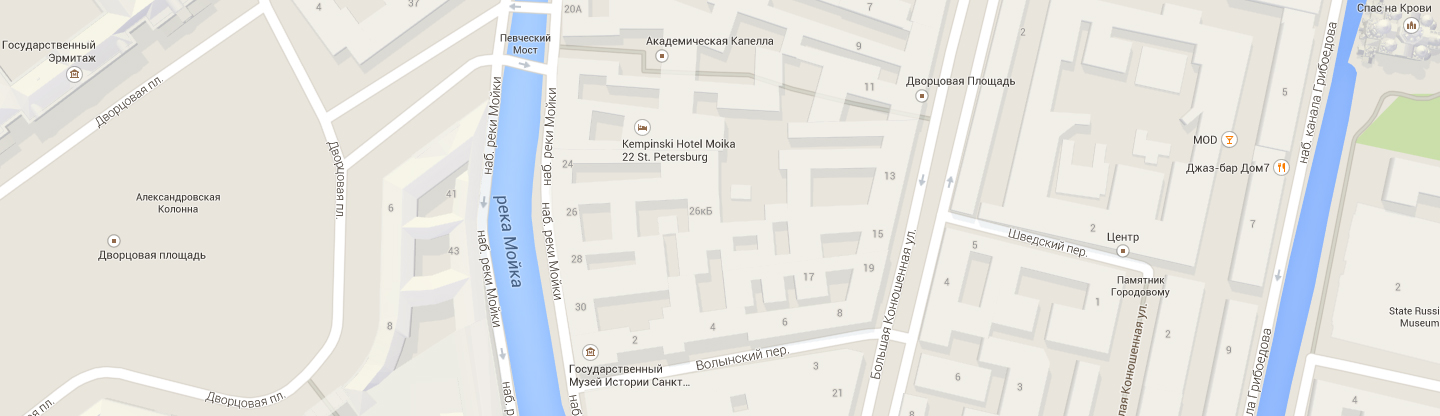
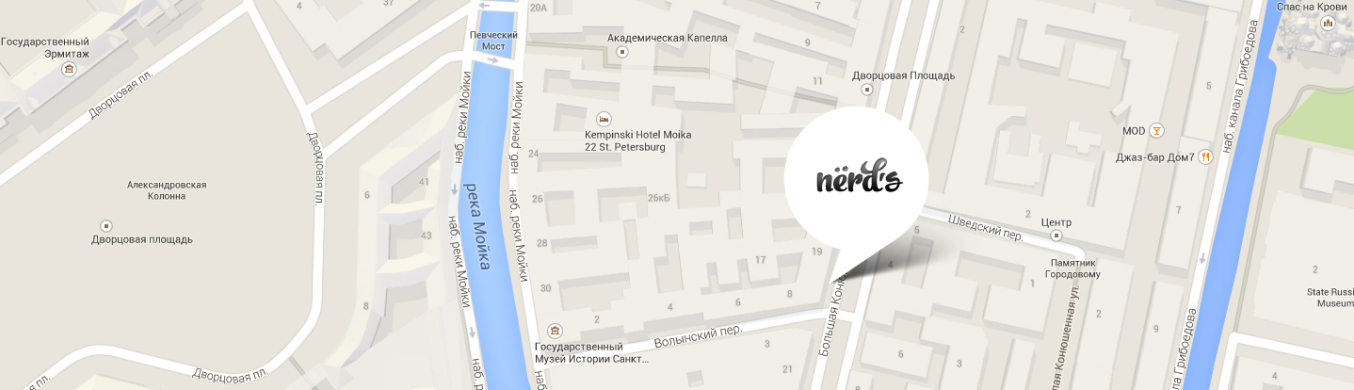
Делает сетку на главной странице

diff --git a/index.html b/index.html
@@ -13,7 +13,7 @@
     <title>HTML Academy: Нёрдс</title>
   </head>
   <body class="page-body">
-    <header class="main-header">
+    <header class="main-header container">
       <nav class="main-navigation">
         <img class="main-header-logo" src="img/logo/nerds-logo.svg" width="160" height="65" alt="Логотип студии Нёрдс">
         <ul class="site-navigation">
@@ -28,14 +28,18 @@
     <main class="container">
       <h1>Дизайн-студия Нёрдс</h1>
       <section class="slider">
-        <h2>Промо</h2>
-        <p class="slogan">Долго, дорого, скрупулезно.</p>
-        <p>Математически выверенный дизайн для вашего сайта или мобильного приложения.</p>
-        <a class="button btn-red" href="#">Узнать больше</a>
-        <img src="img/nerds-index-slide1_1.png" width=760 height=431 alt="Обои первого слайда">
-        <button class="button" type="button"></button>
-        <button class="button" type="button"></button>
-        <button class="button" type="button"></button>
+        <div class="slider-promo">
+          <h2>Промо</h2>
+          <p class="slogan">Долго, дорого, скрупулезно.</p>
+          <p>Математически выверенный дизайн для вашего сайта или мобильного приложения.</p>
+          <a class="button btn-red" href="#">Узнать больше</a>
+        </div>
+        <div class="slider-img">
+          <img src="img/nerds-index-slide1_1.png" width=760 height=431 alt="Обои первого слайда">
+          <button class="button" type="button"></button>
+          <button class="button" type="button"></button>
+          <button class="button" type="button"></button>
+        </div>
       </section>
       <section class="work">
         <h2>Выполняемые работы</h2>
@@ -61,30 +65,34 @@
         </ul>
       </section>
       <section class="about-us">
-        <h2>О нас</h2>
-        <p class="about-us-promo">Мы — маленькая, но гордая дизайн-студия из Краснодара.</p>
-        <p>Исповедуем принципы минимализма и чистоты.
-           Ставим математический расчетпревыше креатива. Работаем не покладая рук, как роботы.</p>
-        <p class="heading-list">Выполняем заказы на разработку:</p>
-        <ul class="about-us-list">
-          <li class="about-us-item">Веб-сайтов любой сложности</li>
-          <li class="about-us-item">Мобильных приложений для iOS и Android</li>
-          <li class="about-us-item">Слайдшоу и видео для корпоративных презентаций</li>
-        </ul>
-        <img class="img-grey" src="img/logo/nerds-illustration1_2.png" width="360"  height="208" alt="Нёрдс">
-        <p class="after-logo">с 2004 года Любим точность во всем:</p>
-        <table class="about-us-table">
-          <tr>
-            <th>146<sup>%</sup></th>
-            <th>100<sup>%</sup></th>
-            <th>50<sup>%</sup></th>
-          </tr>
-          <tr>
-            <td>Уровень самоотдачи</td>
-            <td>Соблюдение сроков</td>
-            <td>Минимальная предоплата</td>
-          </tr>
-        </table>
+        <div class="about-us-text">
+          <h2>О нас</h2>
+          <p class="about-us-promo">Мы — маленькая, но гордая дизайн-студия из Краснодара.</p>
+          <p>Исповедуем принципы минимализма и чистоты.
+             Ставим математический расчет превыше креатива. Работаем не покладая рук, как роботы.</p>
+          <p class="heading-list">Выполняем заказы на разработку:</p>
+          <ul class="about-us-list">
+            <li class="about-us-item">Веб-сайтов любой сложности</li>
+            <li class="about-us-item">Мобильных приложений для iOS и Android</li>
+            <li class="about-us-item">Слайдшоу и видео для корпоративных презентаций</li>
+          </ul>
+        </div>
+        <div class="about-us-img">
+          <img class="img-grey" src="img/logo/nerds-illustration1_2.png" width="360"  height="208" alt="Нёрдс">
+          <p class="after-logo">с 2004 года Любим точность во всем:</p>
+          <table class="about-us-table">
+            <tr>
+              <th>146<sup>%</sup></th>
+              <th>100<sup>%</sup></th>
+              <th>50<sup>%</sup></th>
+            </tr>
+            <tr>
+              <td>Уровень самоотдачи</td>
+              <td>Соблюдение сроков</td>
+              <td>Минимальная предоплата</td>
+            </tr>
+          </table>
+        </div>
       </section>
       <section class="clients">
         <h2>Наши клиенты</h2>
@@ -100,7 +108,6 @@
       <section class="map">
         <h2>Карта</h2>
         <img class="img-map" src="img/map.png" width="1440" height="416" alt="Карта">
-        <img class="img-marker" src="img/map-marker.png" width="231" height="190" alt="Маркер">
         <div class="contacts">
           <h3>NЁRDS DESIGN STUDIO</h3>
           <p>191186, Санкт-Петербург, ул. Б. Конюшенная, д. 19/8тел. <br>
@@ -108,21 +115,25 @@
           <a class="button btn-red" href="#" >Напишите нам</a>
         </div>
       </section>
-      <section class="footer-socials">
-        <h2>Социальные сети</h2>
-          <ul class="footer-socials-list">
-            <li class="footer-socials-item">
-              <a class="socials-button" href="https://vk.com"><img src="img/vk.svg" width="26" height="15" alt="Вконтакте"></a>
-            </li>
-            <li class="footer-socials-item">
-              <a class="socials-button" href="https://facebook.com"><img src="img/fb.svg" width="12" height="22" alt="Фейсбук"></a>
-            </li>
-            <li class="footer-socials-item">
-              <a class="socials-button" href="https://instagram.com"><img src="img/inst.svg" width="21" height="21" alt="Инстаграм"></a>
-            </li>
-          </ul>
-        <p class="heading-socials,">Давайте дружить, это выгодно!</p>
-        <p>Скидка 10% для друзей из социальных сетей.</p>
+      <section class="footer-socials container">
+        <div class="socials">
+          <h2>Социальные сети</h2>
+            <ul class="footer-socials-list">
+              <li class="footer-socials-item">
+                <a class="socials-button" href="https://vk.com"><img src="img/vk.svg" width="26" height="15" alt="Вконтакте"></a>
+              </li>
+              <li class="footer-socials-item">
+                <a class="socials-button" href="https://facebook.com"><img src="img/fb.svg" width="12" height="22" alt="Фейсбук"></a>
+              </li>
+              <li class="footer-socials-item">
+                <a class="socials-button" href="https://instagram.com"><img src="img/inst.svg" width="21" height="21" alt="Инстаграм"></a>
+              </li>
+            </ul>
+        </div>
+        <div class="socials">
+          <p class="heading-socials,">Давайте дружить, это выгодно!</p>
+          <p>Скидка 10% для друзей из социальных сетей.</p>
+        </div>
       </section>
     </footer>
     <section class="write-us">

diff --git a/css/style.css b/css/style.css
@@ -9,7 +9,7 @@
 
   --red: #FB565A;
   --red-hover: #E74246;
-  --red-focus:#D7373B;
+  --red-focus: #D7373B;
   --green: #00CA74;
   --green-hover: #00BC6C;
   --green-focus: #00AA62;
@@ -48,6 +48,10 @@
   font-weight: 400;
   color: var(--text-grey);
   background-color: var(--white);
+  min-height: 100%;
+  display: grid;
+  grid-template-rows: (min-content 1fr min-content);
+  align-content: start;
 }
 
 a {
@@ -58,6 +62,21 @@ a {
 img {
   max-width: 100%;
   height: auto;
+}
+
+/* Greed */
+
+.page {
+  height: 100%;
+
+}
+
+/* Container */
+
+.container {
+  width: 1160px;
+  margin: 0 auto;
+  padding: 0;
 }
 
 /* Header */
@@ -73,10 +92,21 @@ img {
   color: var(--text-black);
   font-weight: 500;
   background-color: transparent;
+  display: grid;
+  grid-template-columns: max-content 1fr max-content;
+}
+
+.main-header-logo {
+  justify-self: left;
 }
 
 .site-navigation {
   list-style: none;
+  justify-self: center;
+}
+
+.basket {
+  justify-self: right;
 }
 
 .site-navigation a,
@@ -87,7 +117,7 @@ img {
 
 .site-navigation a:hover,
 .basket a:hover {
-  color: var(--red) ;
+  color: var(--red);
 }
 
 .site-navigation a:focus,
@@ -105,6 +135,8 @@ img {
 
 .slider {
   background-color: var(--basic-blue);
+  display: grid;
+  grid-template-columns: 1fr 2fr;
 }
 
 .slogan {
@@ -118,6 +150,15 @@ img {
 
 .work-list {
   list-style: none;
+  display: grid;
+  grid-template-columns: 1fr 1fr 1fr;
+  column-gap: 100px;
+  margin: 0;
+  padding: 0;
+}
+
+.work-item {
+  justify-self: left;
 }
 
 h3 {
@@ -141,6 +182,18 @@ h3 {
 
 /* About-us */
 
+.about-us {
+  display: grid;
+  grid-template-columns: 2fr 1fr;
+  column-gap: 40px;
+  margin-bottom: 75px;
+  border-bottom: 2px solid var(--basic-blue);
+}
+
+.about-us-text {
+  justify-self: left;
+}
+
 .about-us-promo {
   font-size: 45px;
   line-height: 45px;
@@ -160,6 +213,8 @@ h3 {
 .after-logo {
   font-weight: 700;
   color: var(--text-black);
+  text-align: center;
+  text-transform: uppercase;
 }
 
 th {
@@ -175,12 +230,6 @@ td {
   line-height: 18px;
 }
 
-/* Clients */
-
-.clients-list {
-  list-style: none;
-}
-
 /*buttton*/
 
 .button {
@@ -190,7 +239,7 @@ td {
 }
 
 .btn-red,
-.btn-order1  {
+.btn-order1 {
   background-color: var(--red);
 }
 
@@ -205,7 +254,7 @@ td {
   background-color: var(--red-focus);
 }
 
-.btn-order2  {
+.btn-order2 {
   background-color: var(--green);
 }
 
@@ -218,7 +267,7 @@ td {
   background-color: var(--green-focus);
 }
 
-.btn-order3  {
+.btn-order3 {
   background-color: var(--yellow);
 }
 
@@ -232,6 +281,20 @@ td {
 }
 
 /* Clients */
+
+.clients-list {
+  display: grid;
+  grid-template-columns: 1fr 1fr 1fr 1fr;
+  margin-bottom: 80px;
+  padding: auto 0;
+  border-bottom: 2px solid var(--basic-blue);
+  list-style: none;
+
+}
+
+.clients-item {
+  justify-self: center;
+}
 
 .clients-item a {
   opacity: 0.2;
@@ -269,6 +332,12 @@ footer h3 {
   font-size: 16px;
   line-height: 22px;
   color: var(--text-text-social);
+  display: grid;
+  grid-template-columns: 1fr 2fr;
+}
+
+.socials {
+  justify-self: left;
 }
 
 .heading-socials {
@@ -376,7 +445,7 @@ footer h3 {
 }
 
 .popup-link .heading-popup:focus {
-  color:var(--text-black);
+  color: var(--text-black);
   opacity: 0.3;
 }
 
@@ -431,4 +500,3 @@ footer h3 {
   background-color: rgba(0, 0, 0, 0.0001);
   border: 3px solid #DBDBDB;
 }
-

diff --git a/catalog.html b/catalog.html
@@ -162,7 +162,6 @@
         <section class="map">
           <h2>Карта</h2>
           <img class="img-map" src="img/map.png" width="1440" height="416" alt="Карта">
-          <img class="img-marker" src="img/map-marker.png" width="231" height="190" alt="Маркер">
           <div class="contacts">
             <h3>NЁRDS DESIGN STUDIO</h3>
             <p>191186, Санкт-Петербург, ул. Б. Конюшенная, д. 19/8тел. <br>
